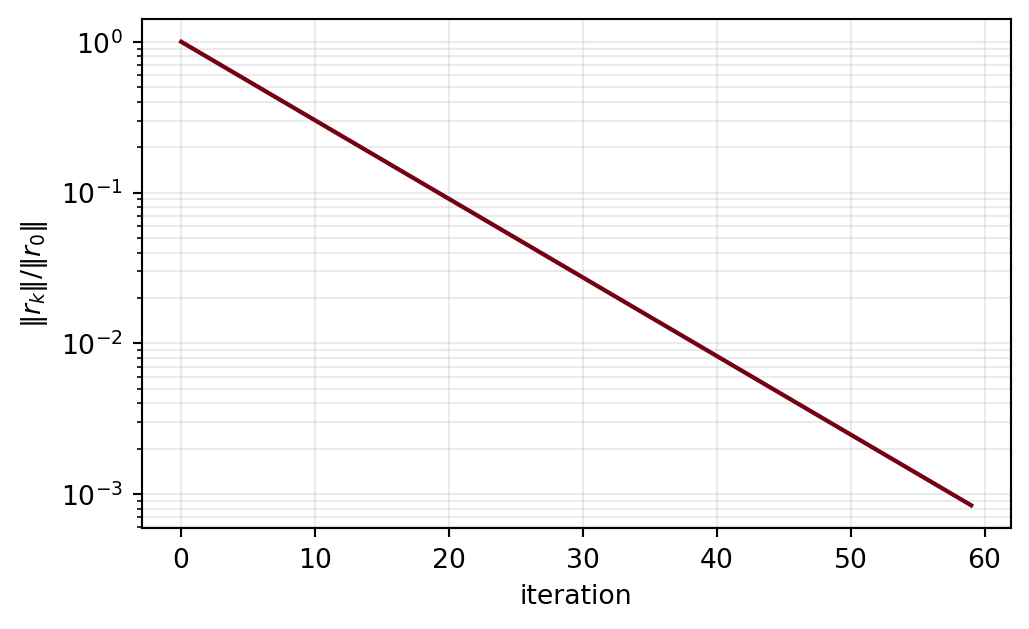
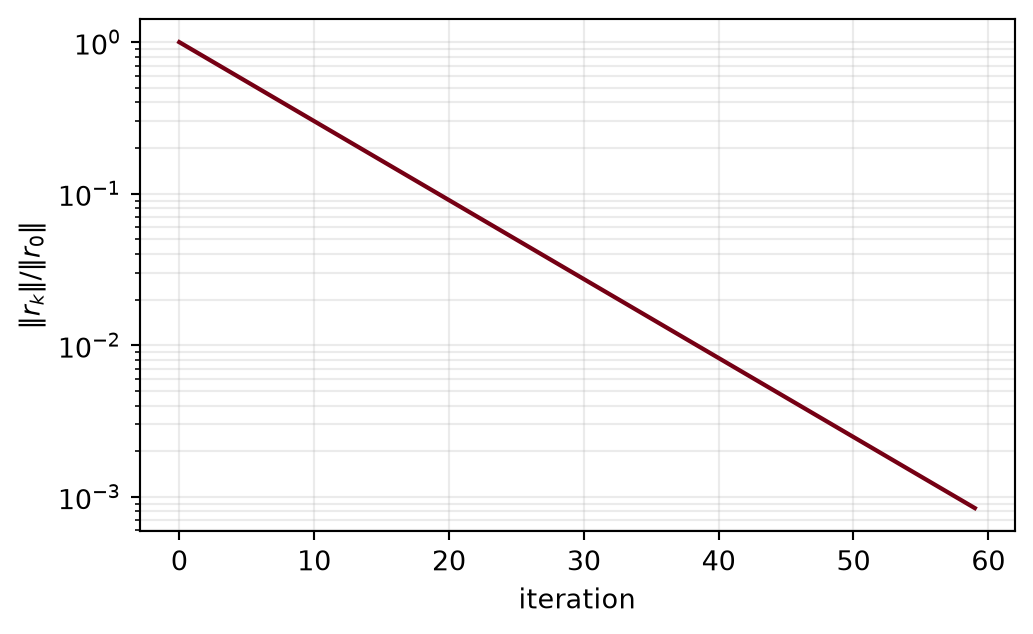
fix: position the series nav links instead of running them together
The nav emitted all three links on one line joined by middots, which
Pandoc renders as a single <p>. The container's justify-content had one
child to distribute and was therefore inert -- every style applied and
nothing moved. Each link now gets its own fenced div.

Uses a three-column grid rather than flex with space-between: the first
and last part of a series have only two links, and space-between would
push 'All parts' to whichever end was free, so it would land somewhere
different on almost every page.

Also refreshes the frozen .qmd post. Quarto's freeze cache stores the
markdown after includes are expanded and hashes only the .qmd source, so
editing a partial does not invalidate it -- the post had gone on serving
its previous navigation.

diff --git a/theme.scss b/theme.scss
@@ -191,15 +191,48 @@ body {
 
 // Series navigation: the prev / index / next footer. The rule above it
 // separates navigation from prose; without one the links read as a final
-// sentence of the post. Wraps rather than squeezing, since three long part
-// titles will not fit one line on a phone.
+// sentence of the post.
+//
+// Grid with three explicit columns, not flex with space-between. Under flex
+// the first and last parts -- which have only two links, not three -- would
+// push "All parts" to whichever end was free, so the index link would sit
+// in a different place on almost every page of a series. Naming the column
+// each link belongs to holds all three still whether or not its neighbours
+// exist.
 .series-nav {
-  display: flex;
-  flex-wrap: wrap;
+  display: grid;
+  grid-template-columns: 1fr auto 1fr;
   gap: 0.5rem 1.5rem;
-  justify-content: space-between;
+  align-items: baseline;
   border-top: 1px solid $rule;
   margin-top: 3rem;
   padding-top: 1rem;
   font-size: 0.9rem;
+
+  // Pandoc wraps each link in a <p>, whose bottom margin would otherwise
+  // show up as dead space under a one-line footer.
+  p {
+    margin: 0;
+  }
+}
+
+.series-prev  { grid-column: 1; justify-self: start; }
+.series-index { grid-column: 2; justify-self: center; }
+.series-next  { grid-column: 3; justify-self: end; text-align: right; }
+
+// Three part titles side by side do not fit a phone. Stack them in reading
+// order instead, all left-aligned. 576px is the same breakpoint the navbar
+// collapses at, so the layout changes once rather than twice on the way down.
+@media (max-width: 576px) {
+  .series-nav {
+    grid-template-columns: 1fr;
+  }
+
+  .series-prev,
+  .series-index,
+  .series-next {
+    grid-column: 1;
+    justify-self: start;
+    text-align: left;
+  }
 }

diff --git a/tests/test_site.py b/tests/test_site.py
@@ -1951,3 +1951,58 @@ def test_ci_checks_series_staleness_before_rendering():
     render = next(i for i, name in enumerate(names) if name == "Render the site")
     assert check < render, f"the staleness check must precede the render; got {names}"
     assert "sync_series.py" in steps[check]["run"]
+
+
+@pytest.mark.parametrize("slug", sorted(SERIES_POSTS))
+def test_series_nav_links_are_separately_positioned(site, slug):
+    """Each nav link must render in its own wrapper.
+
+    The first version emitted all three joined by middots on one line,
+    which Pandoc turned into a single <p>. Every style still applied and
+    nothing looked broken in the CSS, but a container with one child has
+    nothing to distribute, so the prev/index/next placement was silently
+    inert. Only the rendered structure shows that.
+    """
+    partial = (REPO_ROOT / "blog" / "posts" / slug / "_series-nav.md").read_text(
+        encoding="utf-8"
+    )
+    expected = len(re.findall(r"\[[^\]]+\]\([^)]+\)", partial))
+    nav = extract_element(_post_html(site, slug), "series-nav")
+    wrappers = re.findall(r'class="series-(prev|index|next)"', nav)
+    assert len(wrappers) == expected, (
+        f"{slug} nav has {expected} links but rendered {wrappers} wrappers -- "
+        "the links are not separately positioned"
+    )
+
+
+@pytest.mark.parametrize("slug", sorted(SERIES_POSTS))
+def test_rendered_nav_matches_the_committed_partial(site, slug):
+    """What the page shows must match what the generator wrote.
+
+    This exists because of a hole the other tests could not see. Quarto's
+    freeze cache stores each executed page's markdown *after* includes are
+    expanded, and its hash covers only the .qmd source -- so editing a
+    partial does not invalidate it. A frozen post therefore keeps serving
+    the navigation from whenever its code last ran, and neither
+    test_series_partials_are_up_to_date nor the CI staleness check would
+    notice, because both look at the files on disk, which are correct.
+
+    Specifically it catches a stale freeze whose link TEXT has drifted --
+    the common case, since inserting a post mid-series renumbers every part
+    after it and changes who each post's neighbours are. Drift that leaves
+    the text identical but changes the markup is caught by
+    test_series_nav_links_are_separately_positioned instead; the two are
+    complementary and neither subsumes the other.
+
+    If this fails on a .qmd, delete that post's directory under _freeze/,
+    re-render locally, and commit the refreshed cache.
+    """
+    partial = (REPO_ROOT / "blog" / "posts" / slug / "_series-nav.md").read_text(
+        encoding="utf-8"
+    )
+    nav = extract_element(_post_html(site, slug), "series-nav")
+    for text, _href in re.findall(r"\[([^\]]+)\]\(([^)]+)\)", partial):
+        assert text in nav, (
+            f"{slug} was generated with the link {text!r}, but the rendered "
+            f"page does not show it -- stale _freeze cache?"
+        )

diff --git a/scripts/sync_series.py b/scripts/sync_series.py
@@ -168,20 +168,35 @@ def nav_markdown(parts, index, series_slug):
 
     The prev link is omitted on the first part and the next on the last:
     a link reading "Part 0" is worse than no link at all.
+
+    Each link goes in its OWN fenced div, separated by a blank line. Joining
+    them into one line instead -- which is what this did first -- produces a
+    single <p> holding all three, and a single child makes the container's
+    `justify-content` inert: the styles all apply and nothing moves. The
+    three wrappers are what theme.scss places in its three grid columns, so
+    a missing prev or next leaves the others where they were.
     """
-    links = []
+    blocks = []
     if index > 0:
         previous = parts[index - 1]
-        links.append(
-            f"[← Part {index}: {previous['title']}]({_post_href(previous)})"
+        blocks.append(
+            "::: {.series-prev}\n"
+            f"[← Part {index}: {previous['title']}]({_post_href(previous)})\n"
+            ":::"
         )
-    links.append(f"[All parts]({_series_href(series_slug)})")
+    blocks.append(
+        "::: {.series-index}\n"
+        f"[All parts]({_series_href(series_slug)})\n"
+        ":::"
+    )
     if index < len(parts) - 1:
         following = parts[index + 1]
-        links.append(
-            f"[Part {index + 2}: {following['title']} →]({_post_href(following)})"
+        blocks.append(
+            "::: {.series-next}\n"
+            f"[Part {index + 2}: {following['title']} →]({_post_href(following)})\n"
+            ":::"
         )
-    return "::: {.series-nav}\n" + " · ".join(links) + "\n:::\n"
+    return "::: {.series-nav}\n" + "\n\n".join(blocks) + "\n:::\n"
 
 
 def _write_if_changed(path, text):

diff --git a/blog/posts/2026-08-18-uv-catastrophe/_series-nav.md b/blog/posts/2026-08-18-uv-catastrophe/_series-nav.md
@@ -1,3 +1,9 @@
 ::: {.series-nav}
-[← Part 1: The History of The Standard Model](/blog/posts/2026-08-17-standard-model-history/index.md) · [All parts](/blog/series/standard-model/index.md)
+::: {.series-prev}
+[← Part 1: The History of The Standard Model](/blog/posts/2026-08-17-standard-model-history/index.md)
+:::
+
+::: {.series-index}
+[All parts](/blog/series/standard-model/index.md)
+:::
 :::

diff --git a/blog/posts/2026-08-17-standard-model-history/_series-nav.md b/blog/posts/2026-08-17-standard-model-history/_series-nav.md
@@ -1,3 +1,9 @@
 ::: {.series-nav}
-[All parts](/blog/series/standard-model/index.md) · [Part 2: The Ultraviolet Catastrophe →](/blog/posts/2026-08-18-uv-catastrophe/index.qmd)
+::: {.series-index}
+[All parts](/blog/series/standard-model/index.md)
+:::
+
+::: {.series-next}
+[Part 2: The Ultraviolet Catastrophe →](/blog/posts/2026-08-18-uv-catastrophe/index.qmd)
+:::
 :::

diff --git a/blog/posts/2026-08-18-arithmetic/_series-nav.md b/blog/posts/2026-08-18-arithmetic/_series-nav.md
@@ -1,3 +1,5 @@
 ::: {.series-nav}
+::: {.series-index}
 [All parts](/blog/series/arithmetic/index.md)
+:::
 :::
